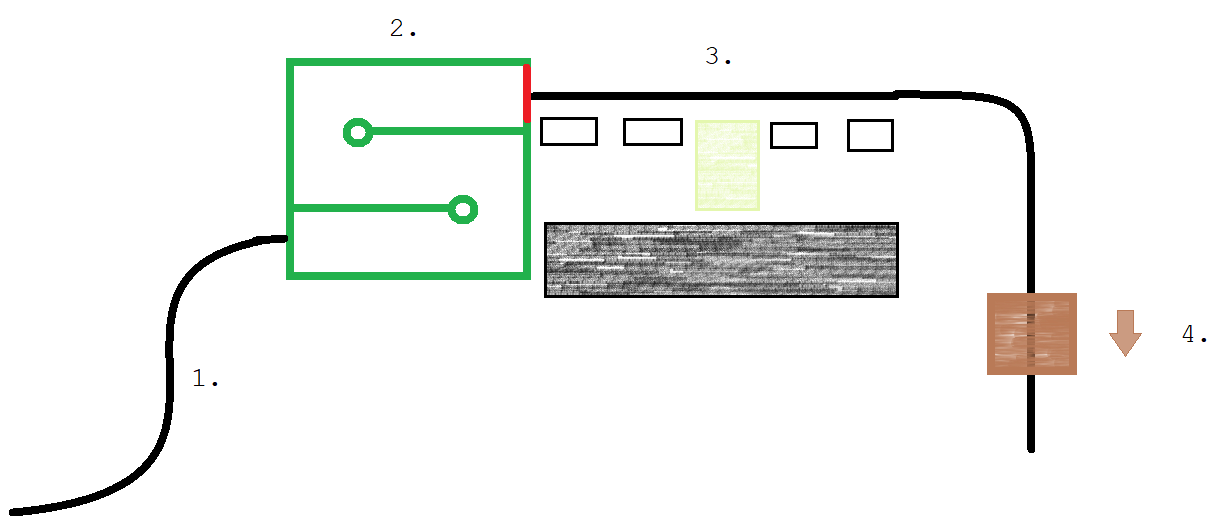
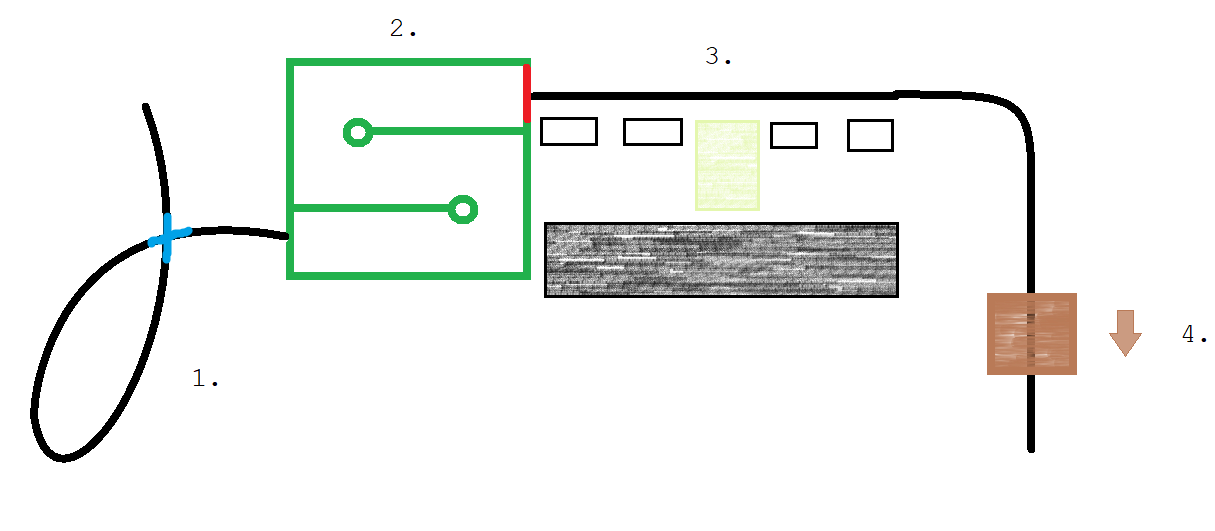
Update exam tasks

diff --git a/tanfolyam/vizsga.md b/tanfolyam/vizsga.md
@@ -5,25 +5,27 @@ title: "LEGO Tanfolyam: Vizsga"
 
 # LEGO Tanfolyam: Vizsga
 
-A vizsgán több feladatot kell elvégeznetek. Ezekért jár külön-külön is pont, illetve pluszpont jár, ha a teljes pályát egy menetben teljesítitek. A pontozásnál figyelembe vesszük a pontosságot és a gyorsaságot is.
+A vizsgán több feladatot kell elvégeznetek. Ezekért jár külön-külön is pont, illetve pluszpont jár, ha a teljes pályát egy menetben teljesítitek. A pontozásnál figyelembe vesszük a pontosságot és a gyorsaságot is, illetve ha valami különleges kiegészítőt raktok a robotra, arra is járhat pluszpont.
+
+Az ábra nem a tényleges vizsgafeladat reprezentációja, az útvonalak és a színek változhatnak, a feladatok sorrendje nem!
 
 A feladatok a következők:
 
 ![Vizsgafeladat](/images/tanfolyam/vizsga.png)
 
-1. Vonalkövetés: a járművet a földre helyezés után a touch szenzor megnyomásával indíthatjuk el.
+1. Vonalkövetés: a járművet a földre helyezés után a touch szenzor megnyomásával indíthatjuk el. Az úton előfordulhat kereszteződés, ez más színnel van jelölve. A vonalkövetés szekció végeztével a kijelzőre ki kell írni a megtett út becsült hosszát cm-ben.
 2. Labirintusból kijutás: a labirintus falai más színnel vannak jelölve, mint a követett vonal. Miután bejutottatok a labirintusba, meg kell keresni annak a kijáratát, ez egy harmadik színnel van jelölve. A labirintusból kijutva ismét az eredeti vonalkövetést kell folytatni. A labirintus falait bejutás után nem szabad átlépni.
 3. Merőleges parkolás: vonalkövetés közben a jármű egyik oldalán parkoló akadályok helyezkednek el. Valahol az út során van egy akkora szabad hely, ahova merőlegesen befordulva elfér a jármű. A jármű hátulján el kell helyezni egy szenzort (touch), amely képes érzékelni, ha a jármű eléri a hátulsó falat, ekkor meg kell állni. A parkolás elvégzése után megadott idő után vissza kell térni az útra és folytatni a vonalkövetést.
-4. Doboz követése: egy egyenes vonalon kell haladni a járművel olyan sebességgel, hogy az előtte húzott dobozig mért távolságot fixen tartsa.
+4. Doboz követése: egy vonalon kell haladni a járművel olyan sebességgel, hogy az előtte húzott dobozig mért távolságot fixen tartsa. A földön a doboz útvonalát vonal is jelzi, hogy segítse az iránytartást.
 
 ## Feladatmegoldás
 
-| 🙉 | R | G | B |
-|---|---|---|---|
-| Vonalkövetés | ☺ 0:26 | ☺ 1:40 | ☺ 0:58 |
-| Labirintus | ✓ 0:30 | ☺ 0:41 | ✖ |
-| Parkolás | ✖ | ✖ | ✖ |
-| Dobozkövetés | ✓ | ✓ | ✓ |
-| Teljes pálya | ✖ | ✖ | ✖ |
-| Feltöltött kód | ✖ | ✖ | ☺ |
-| Kitöltött [kérdőív](https://goo.gl/forms/H6eJts9b3cBlmmp62) | ✖ | ☺ | ✖ |
+| 🙉 | C | Y | M | K |
+|---|---|---|---|---|
+| Vonalkövetés | ✖ | ✖ | ✖ | ✖ |
+| Labirintus | ✖ | ✖ | ✖ | ✖ |
+| Parkolás | ✖ | ✖ | ✖ | ✖ |
+| Dobozkövetés | ✖ | ✖ | ✖ | ✖ |
+| Teljes pálya | ✖ | ✖ | ✖ | ✖ |
+| Feltöltött kód | ✖ | ✖ | ✖ | ✖ |
+| Kitöltött kérdőív | ✖ | ✖ | ✖ | ✖ |
